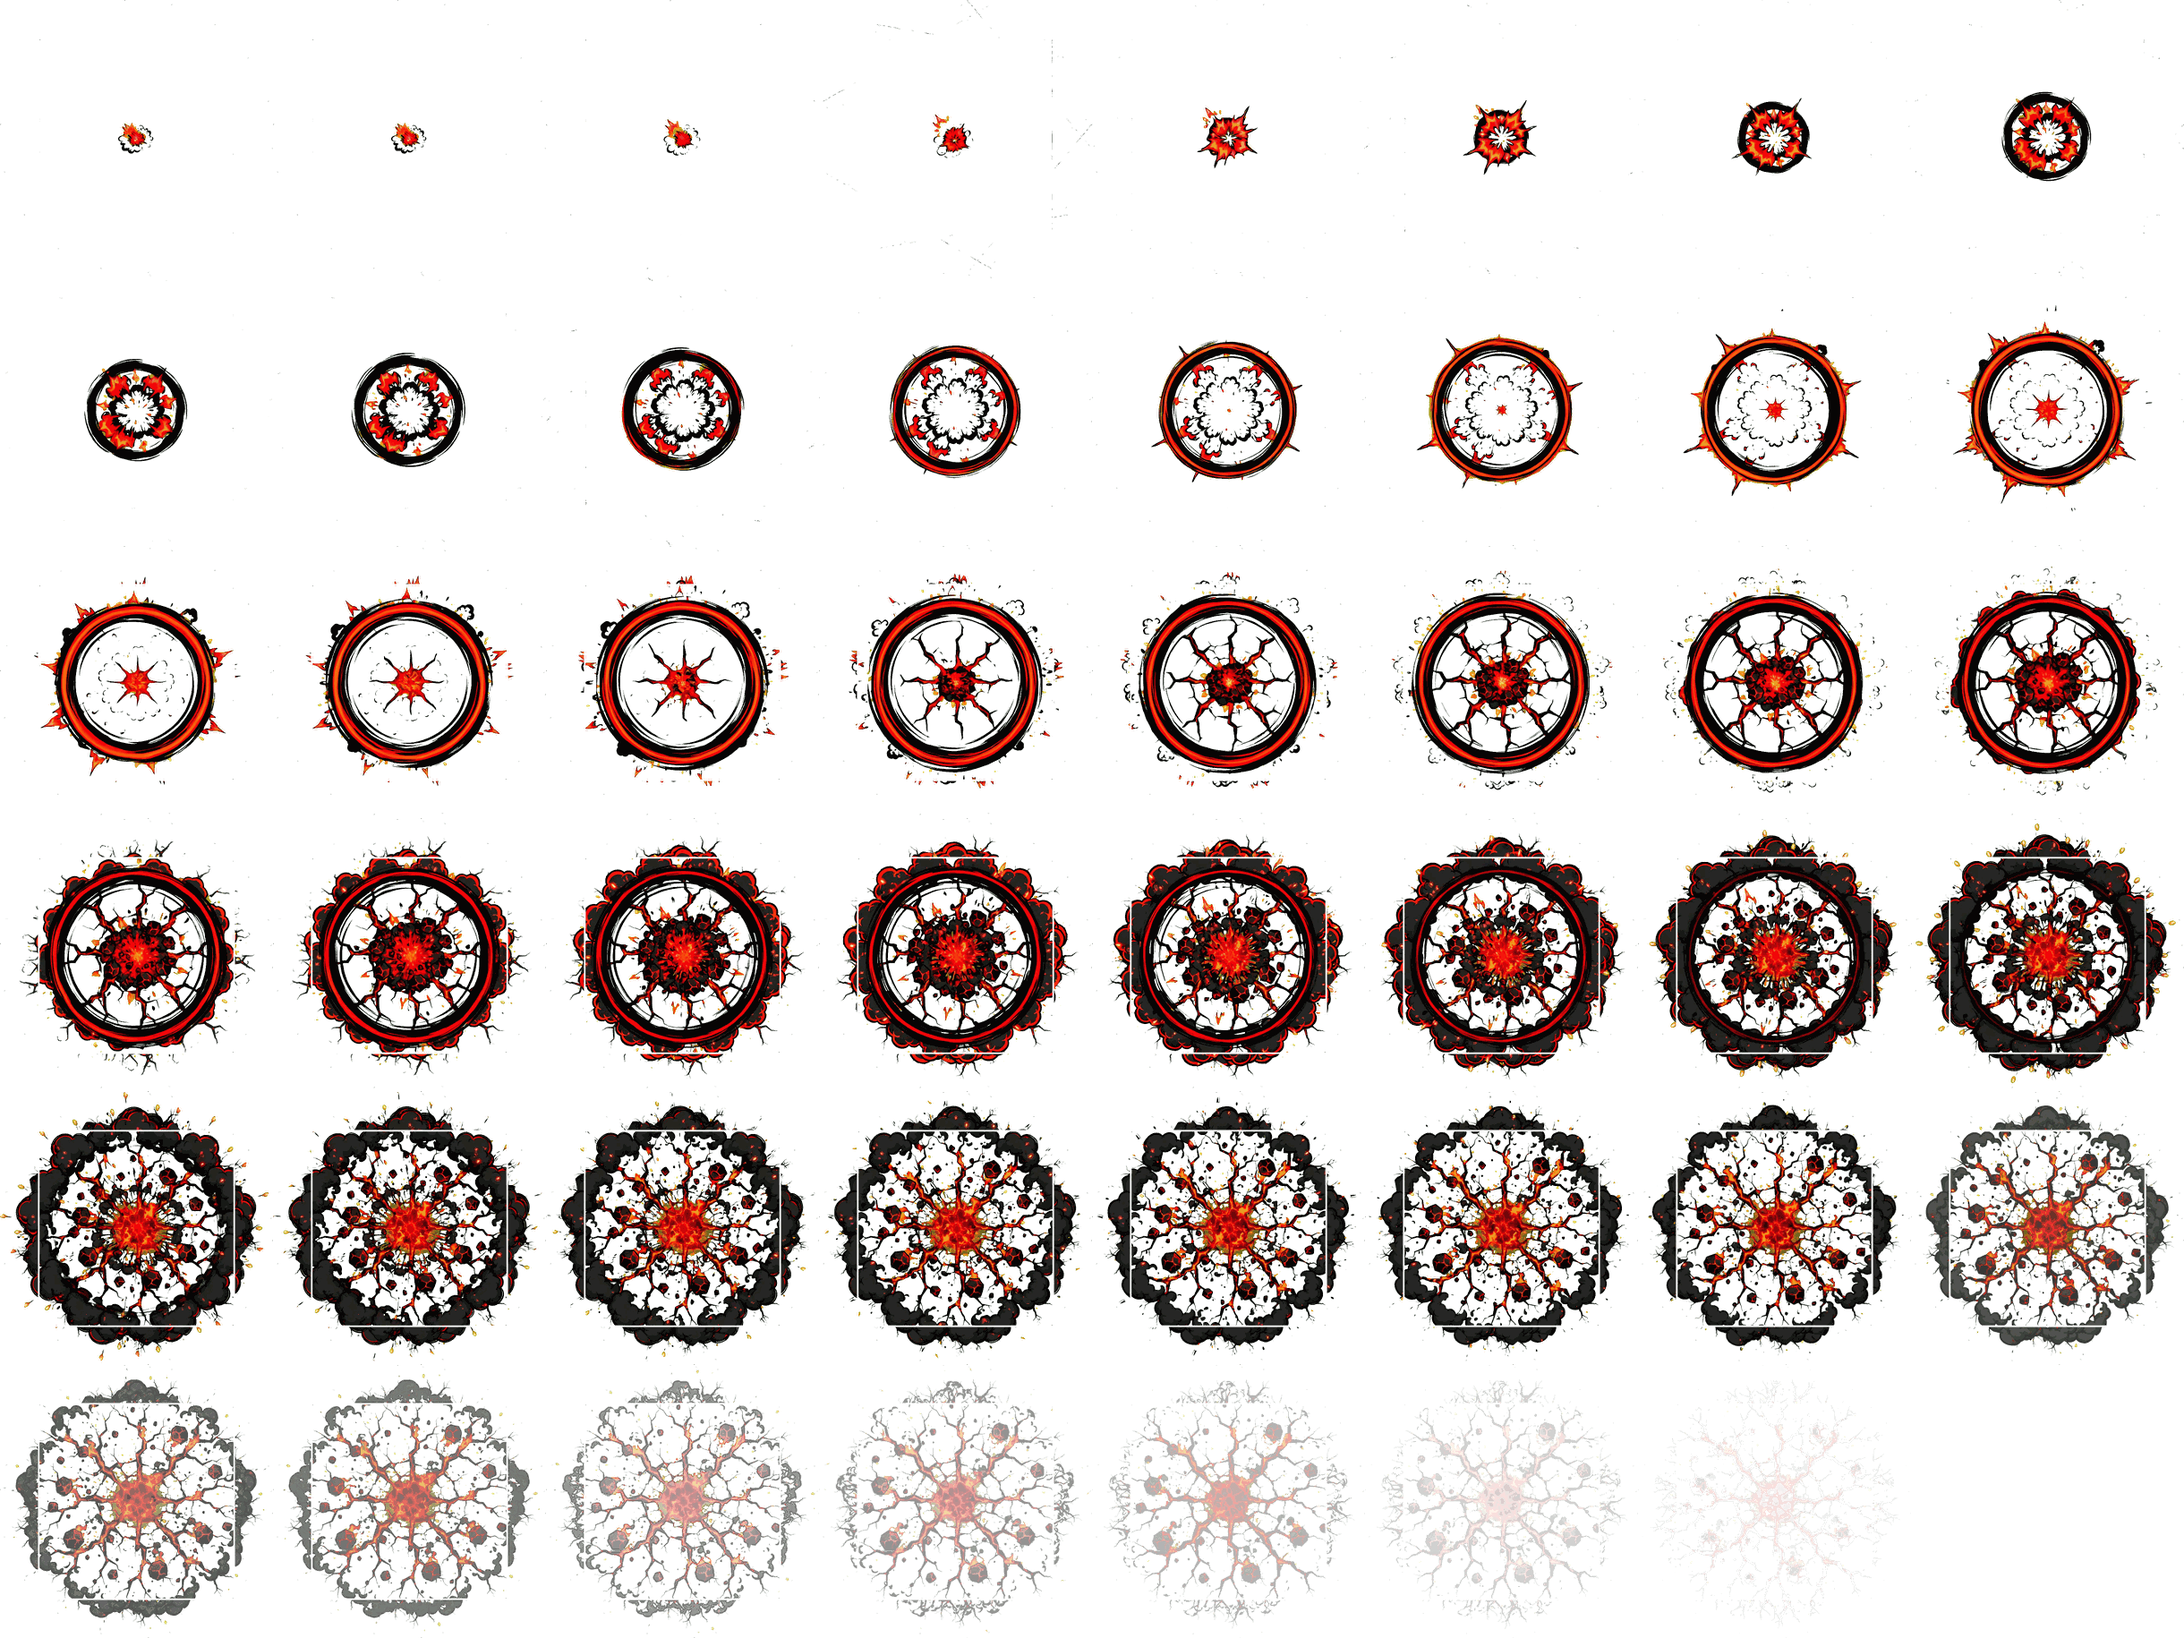
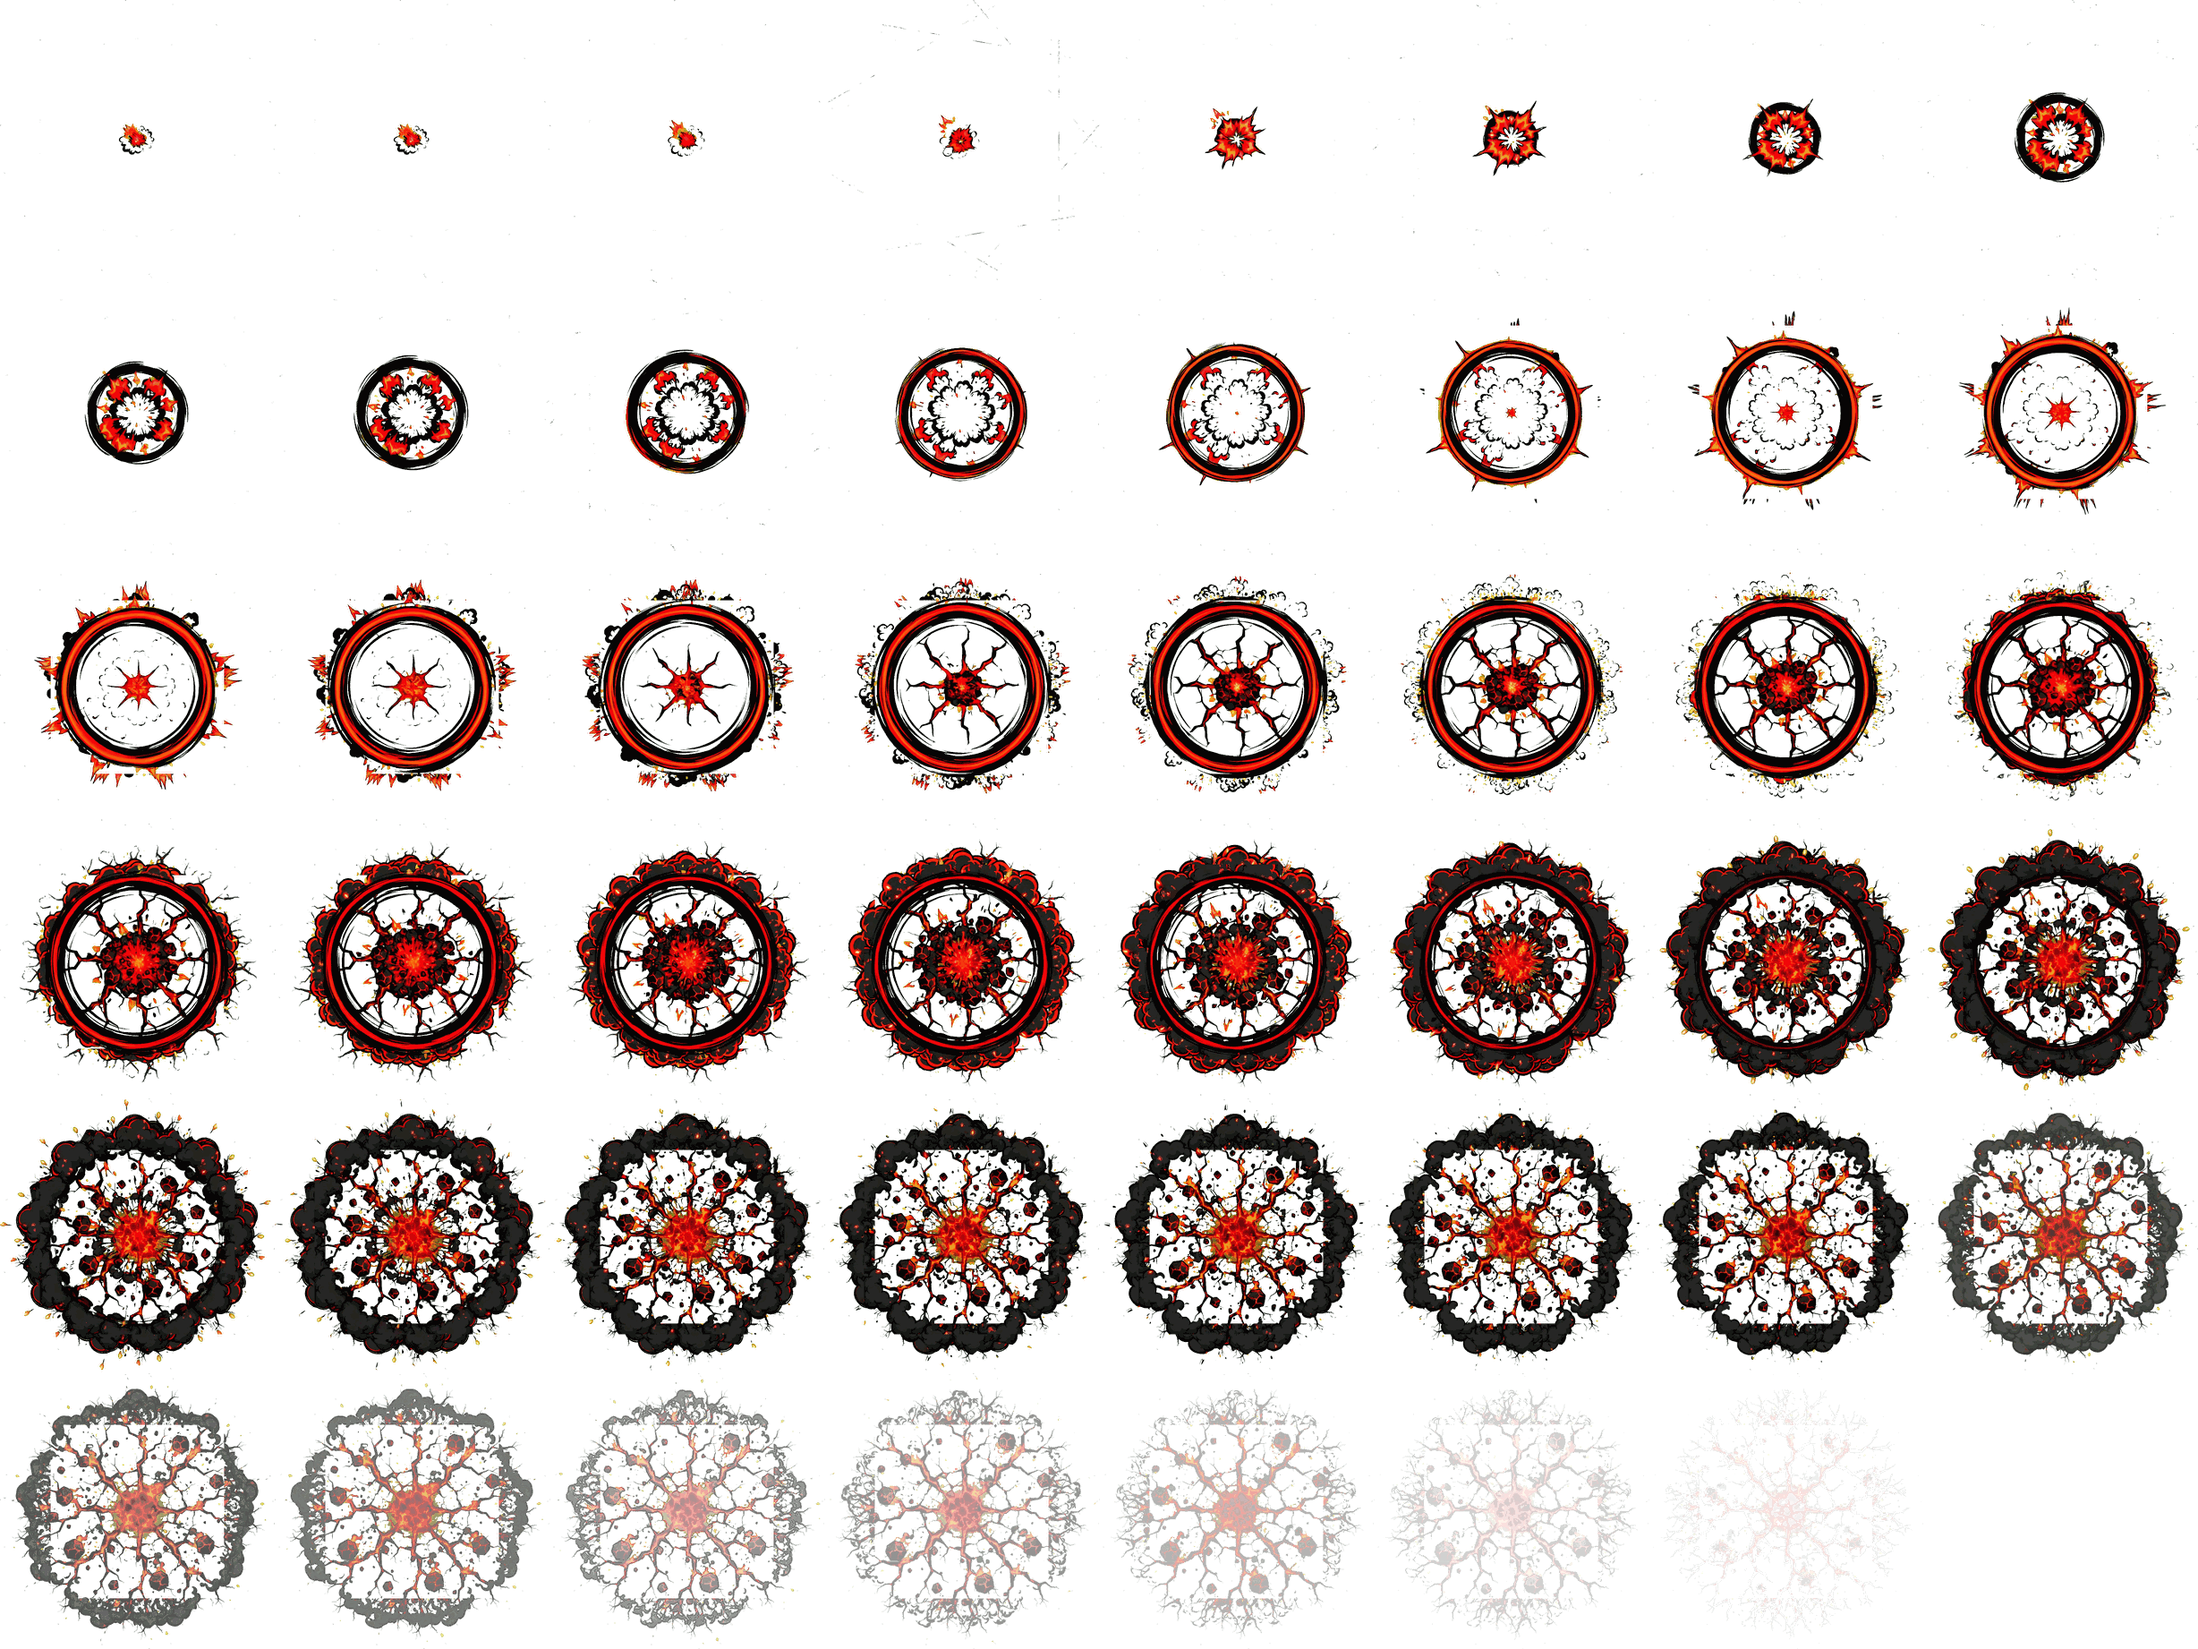
vfx_cut --radial: blend the band inside the old frame edge (no square seam); slam ring re-cut
Claude-Session: https://claude.ai/code/session_01TXxUxQ6wjWh66ESj3NLopA

diff --git a/tools/video/vfx_cut.py b/tools/video/vfx_cut.py
@@ -96,7 +96,7 @@ def radial_fill(K):
         sh = round(360 / n); c = (acc * np.roll(acc, sh)).sum()
         if c > best: best, nsym = c, n
     step = 360 / nsym; P = int(max(H, W) * 1.5) // 2 * 2; oy, ox = (P - H) // 2, (P - W) // 2
-    inside = np.zeros((P, P), bool); inside[oy:oy + H, ox:ox + W] = True
+    inside = np.zeros((P, P), bool); inside[oy + 60:oy + H - 60, ox + 60:ox + W - 60] = True   # the 60 px band inside the old edge is blended too (no square seam)
     out = []
     for k in K:
         pad = np.zeros((P, P, 4), np.uint8); pad[oy:oy + H, ox:ox + W] = k; res = pad.copy()
